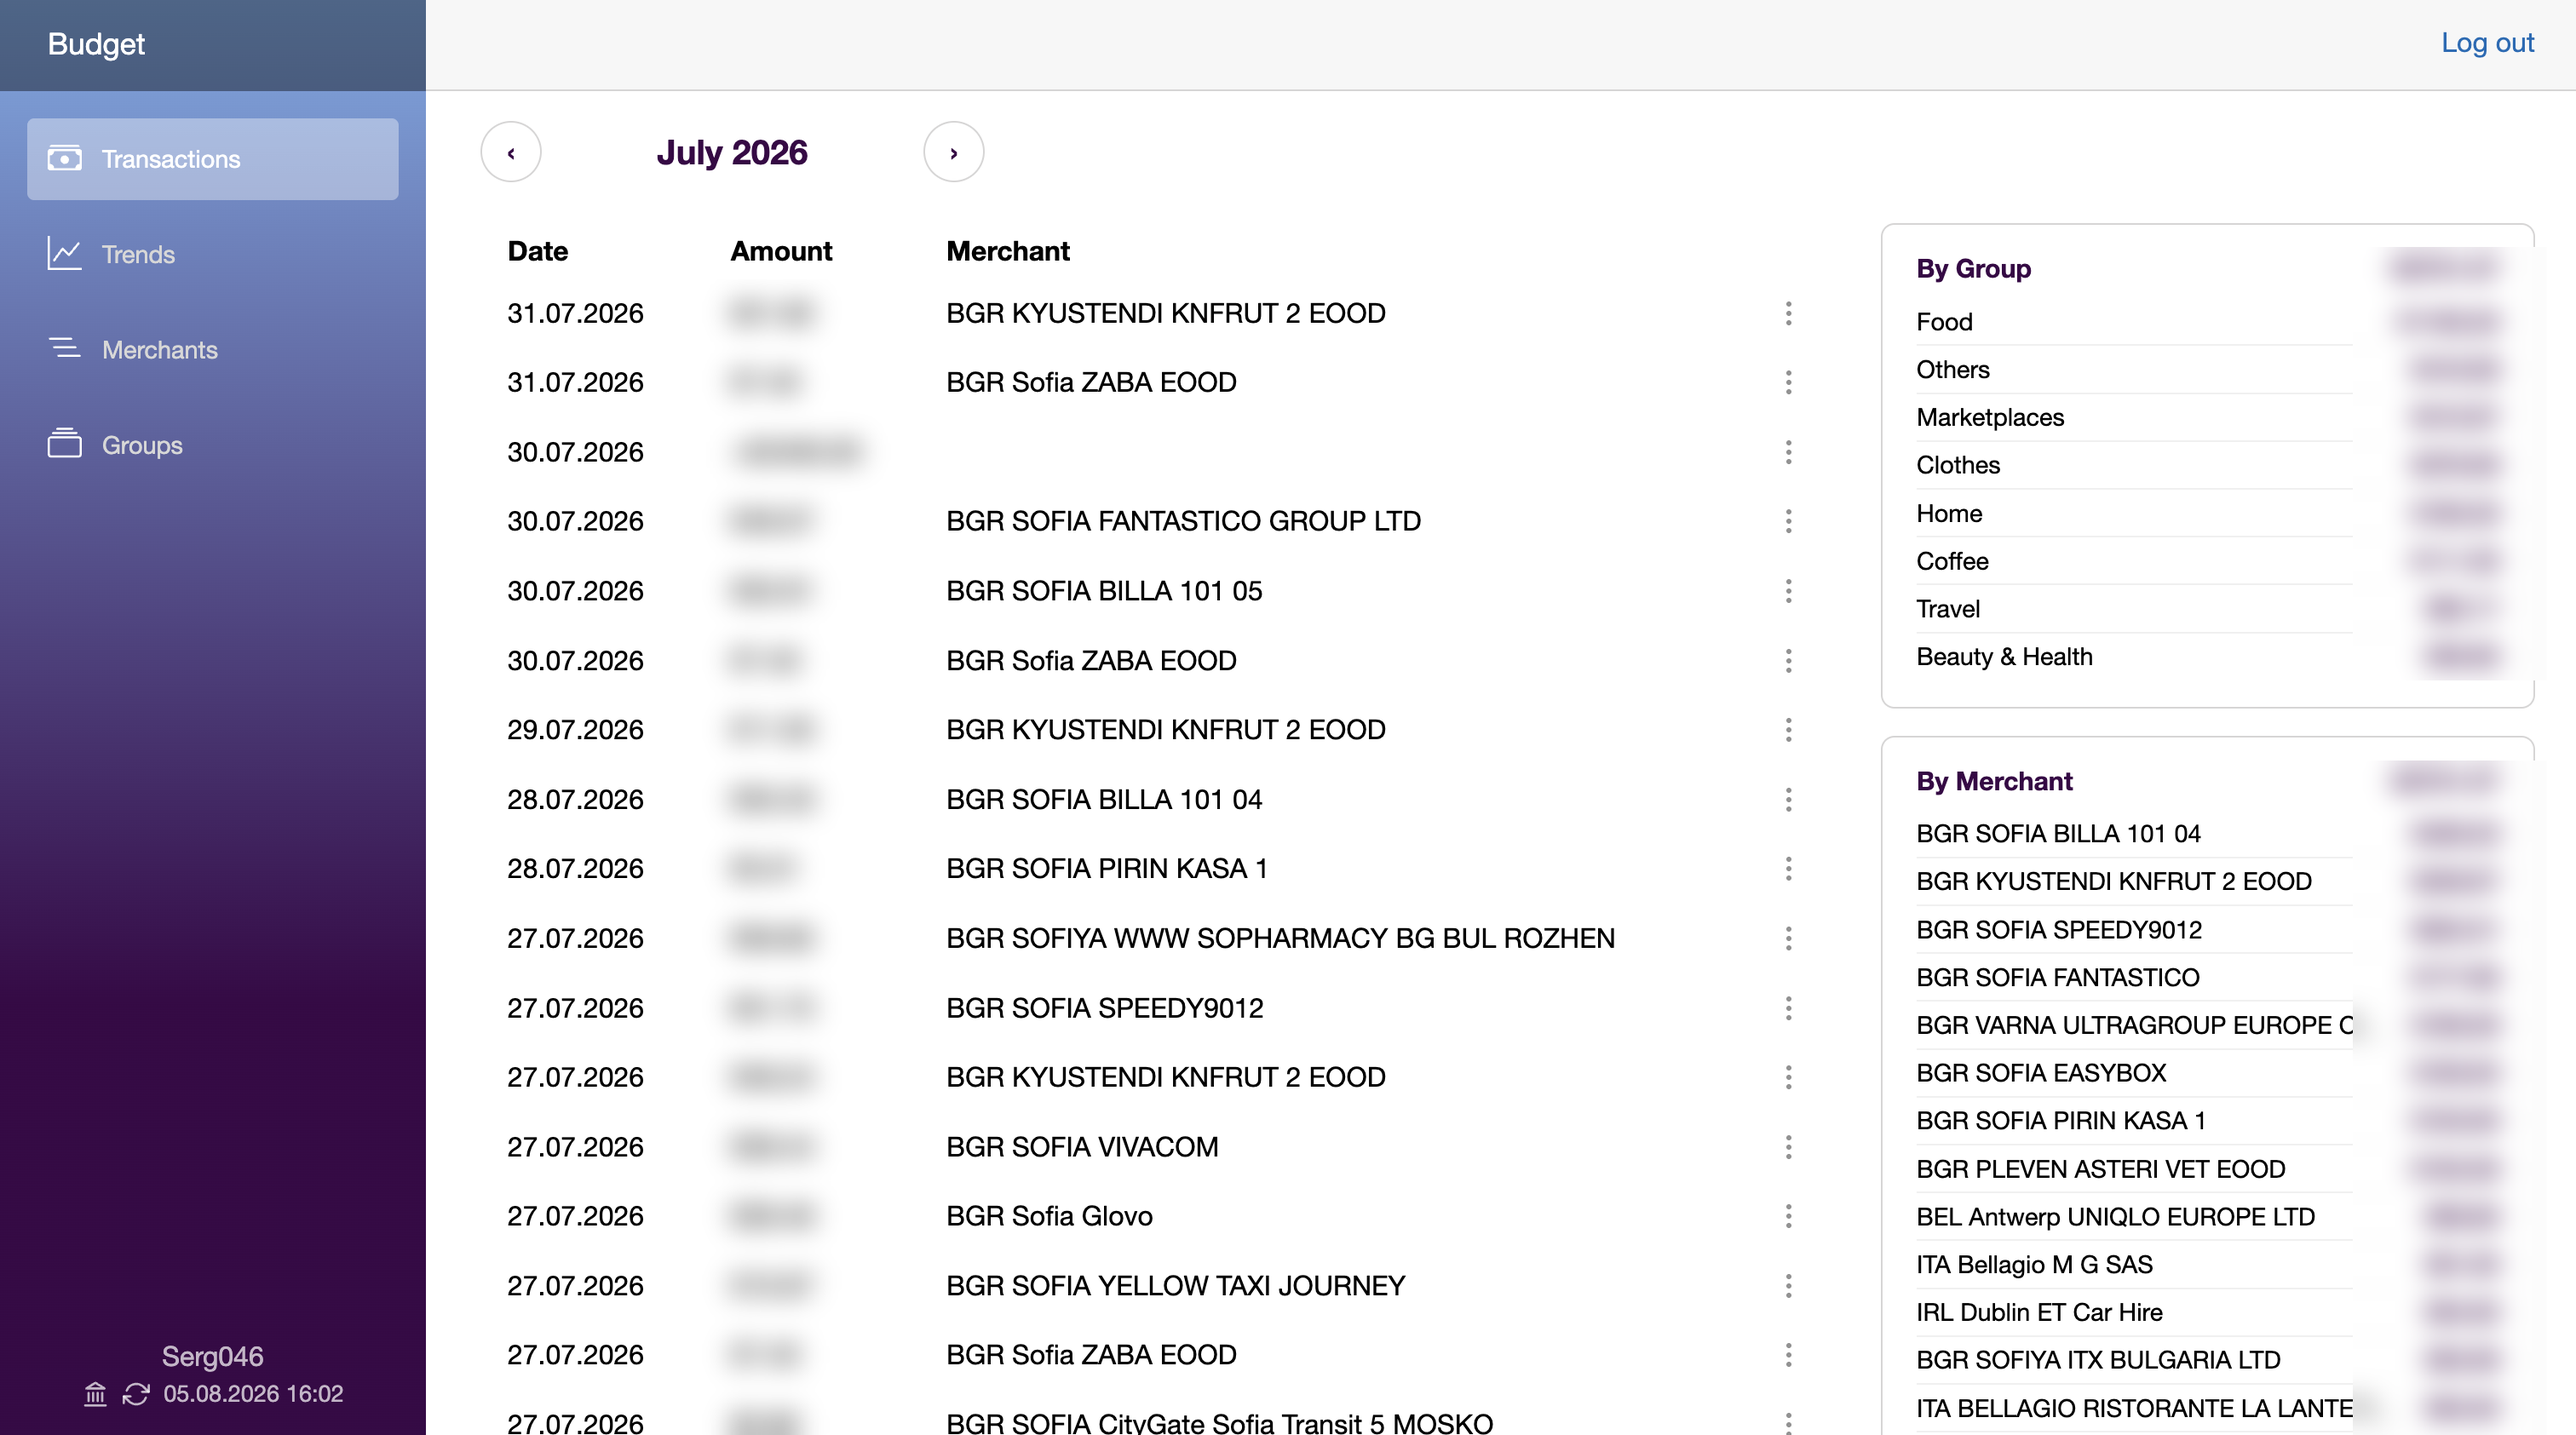
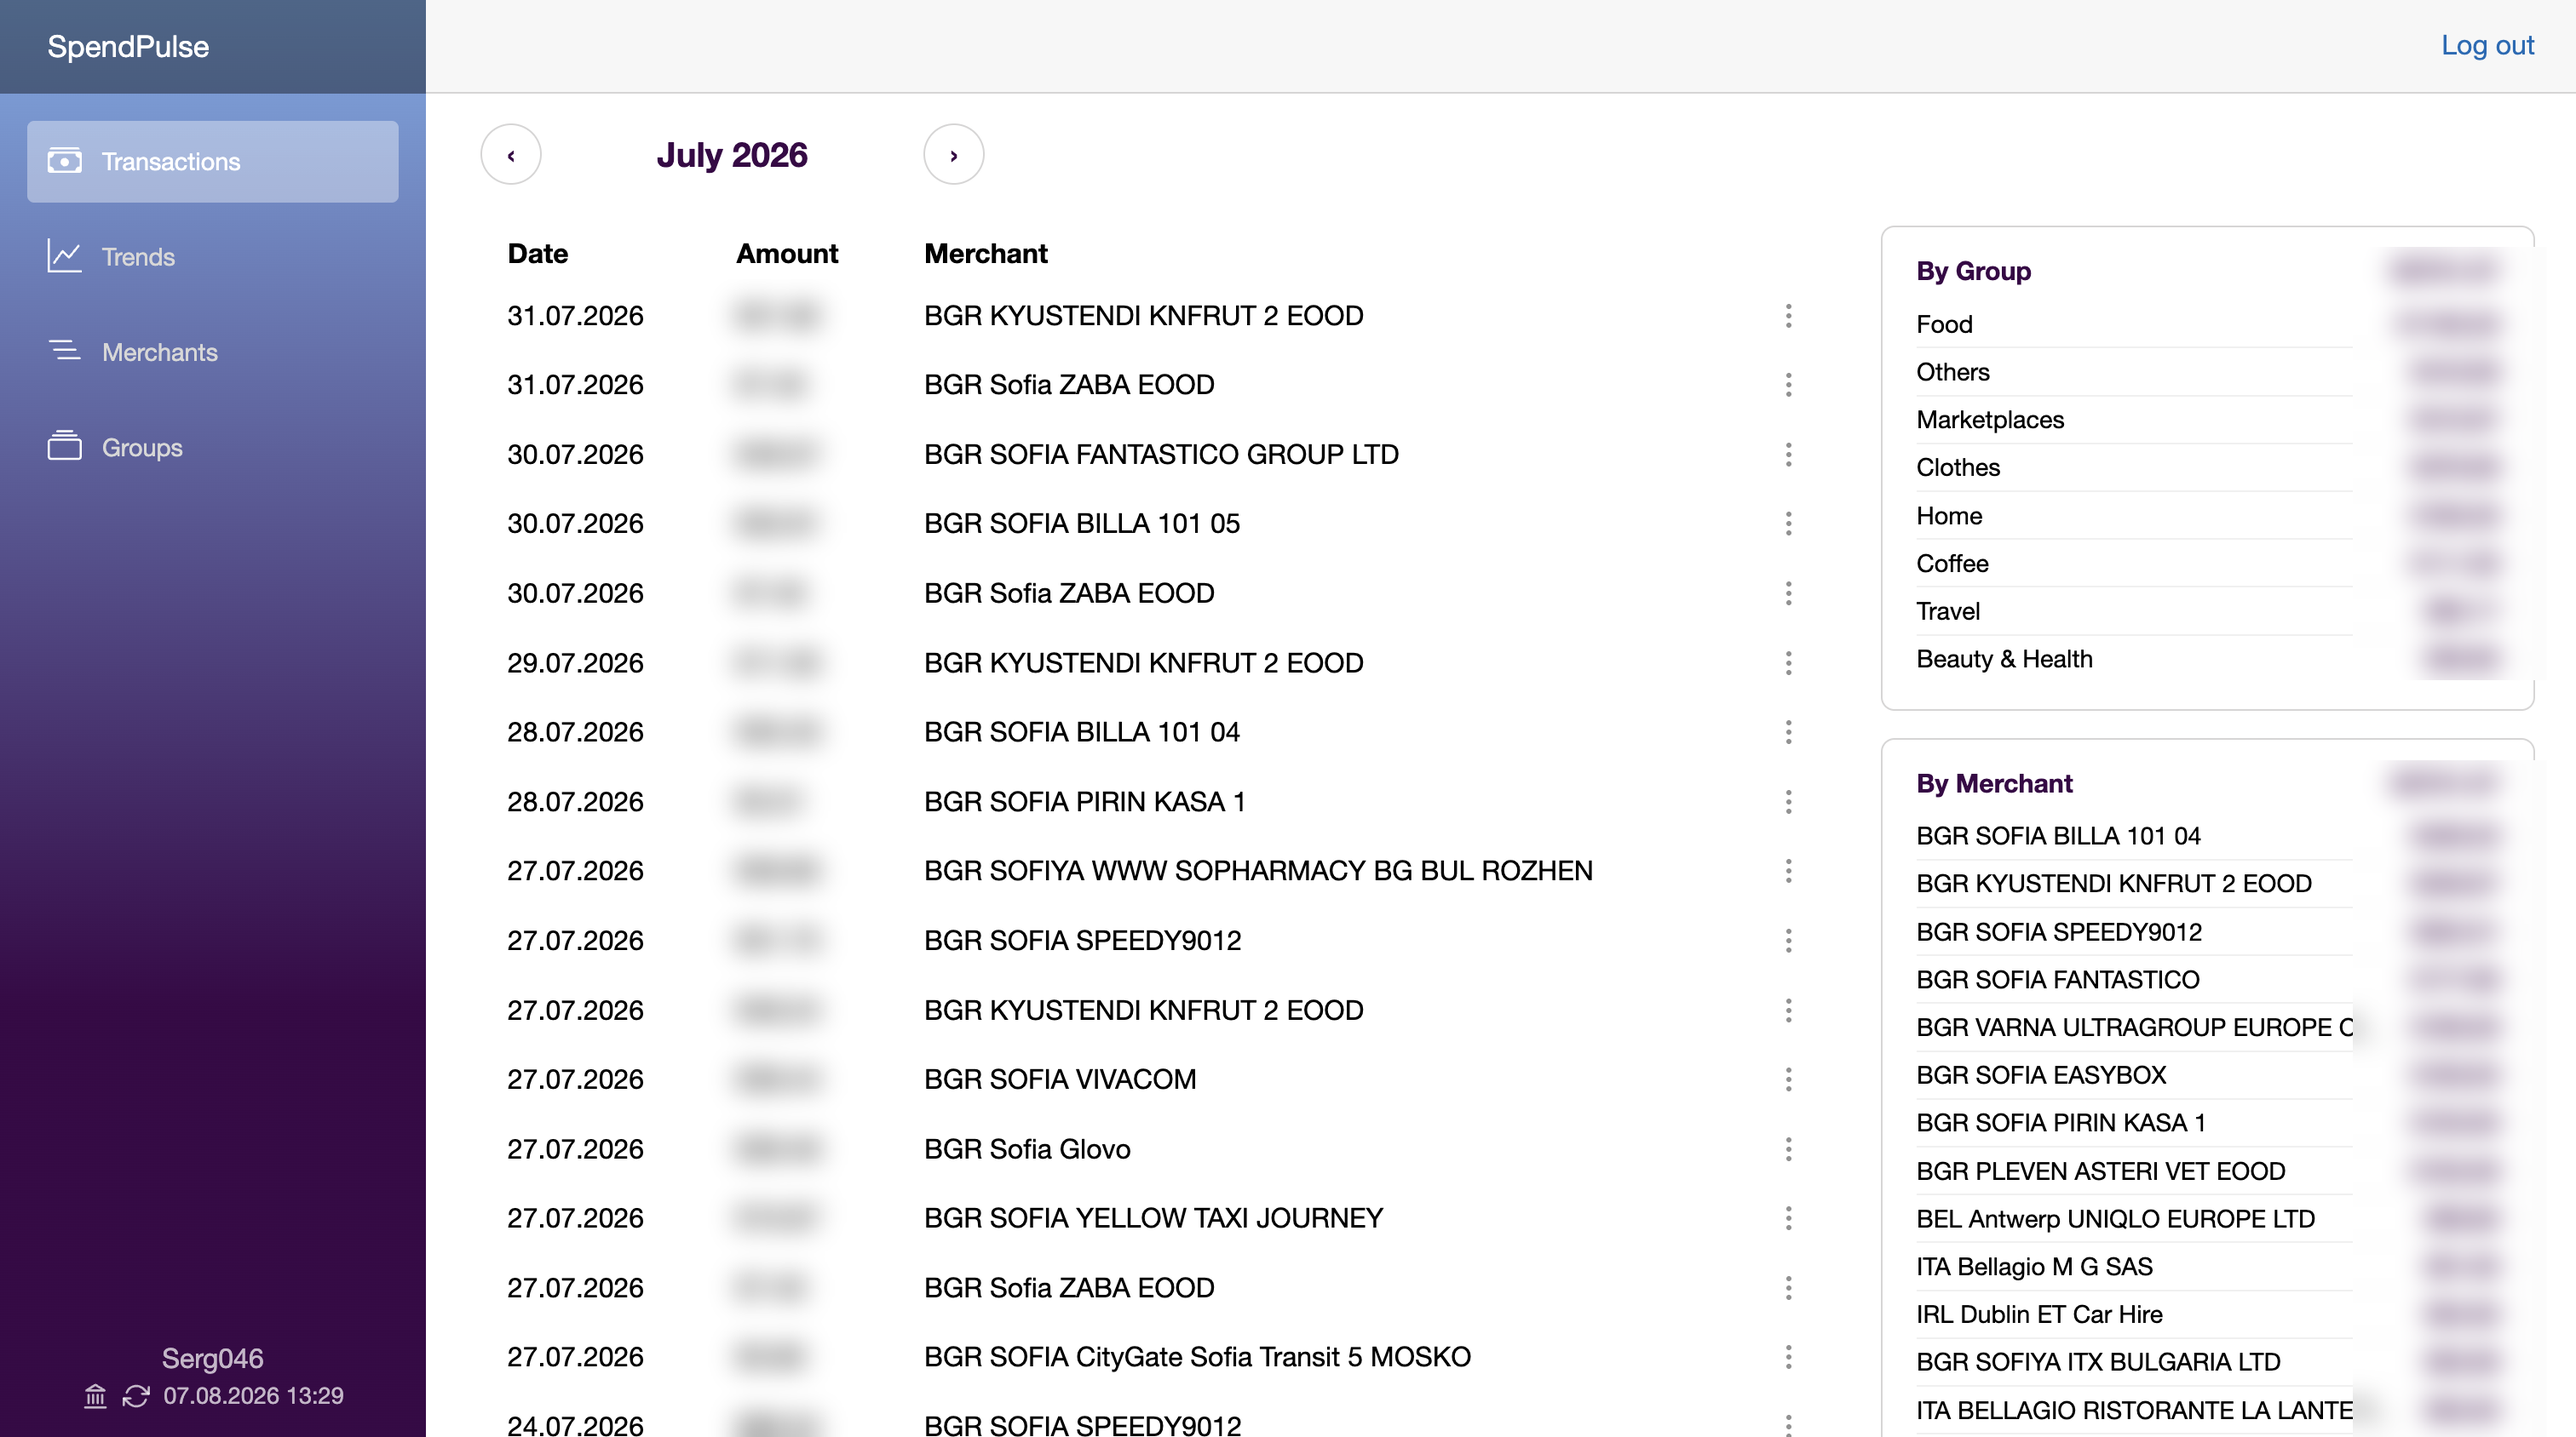
Add timestamp

diff --git a/SpendPulse.Server/Program.cs b/SpendPulse.Server/Program.cs
@@ -23,6 +23,8 @@ CultureInfo.DefaultThreadCurrentUICulture = CultureInfo.InvariantCulture;
 
 var builder = WebApplication.CreateBuilder(args);
 
+builder.Services.AddHttpLogging(_ => { });
+
 builder.Services.AddRazorComponents()
     .AddInteractiveWebAssemblyComponents();
 builder.Services.AddSingleton<IMongoClient>(_ =>
@@ -84,6 +86,8 @@ else
 }
 
 app.UseStatusCodePagesWithReExecute("/not-found", createScopeForStatusCodePages: true);
+
+app.UseHttpLogging();
 
 app.UseAuthentication();
 app.UseAuthorization();
